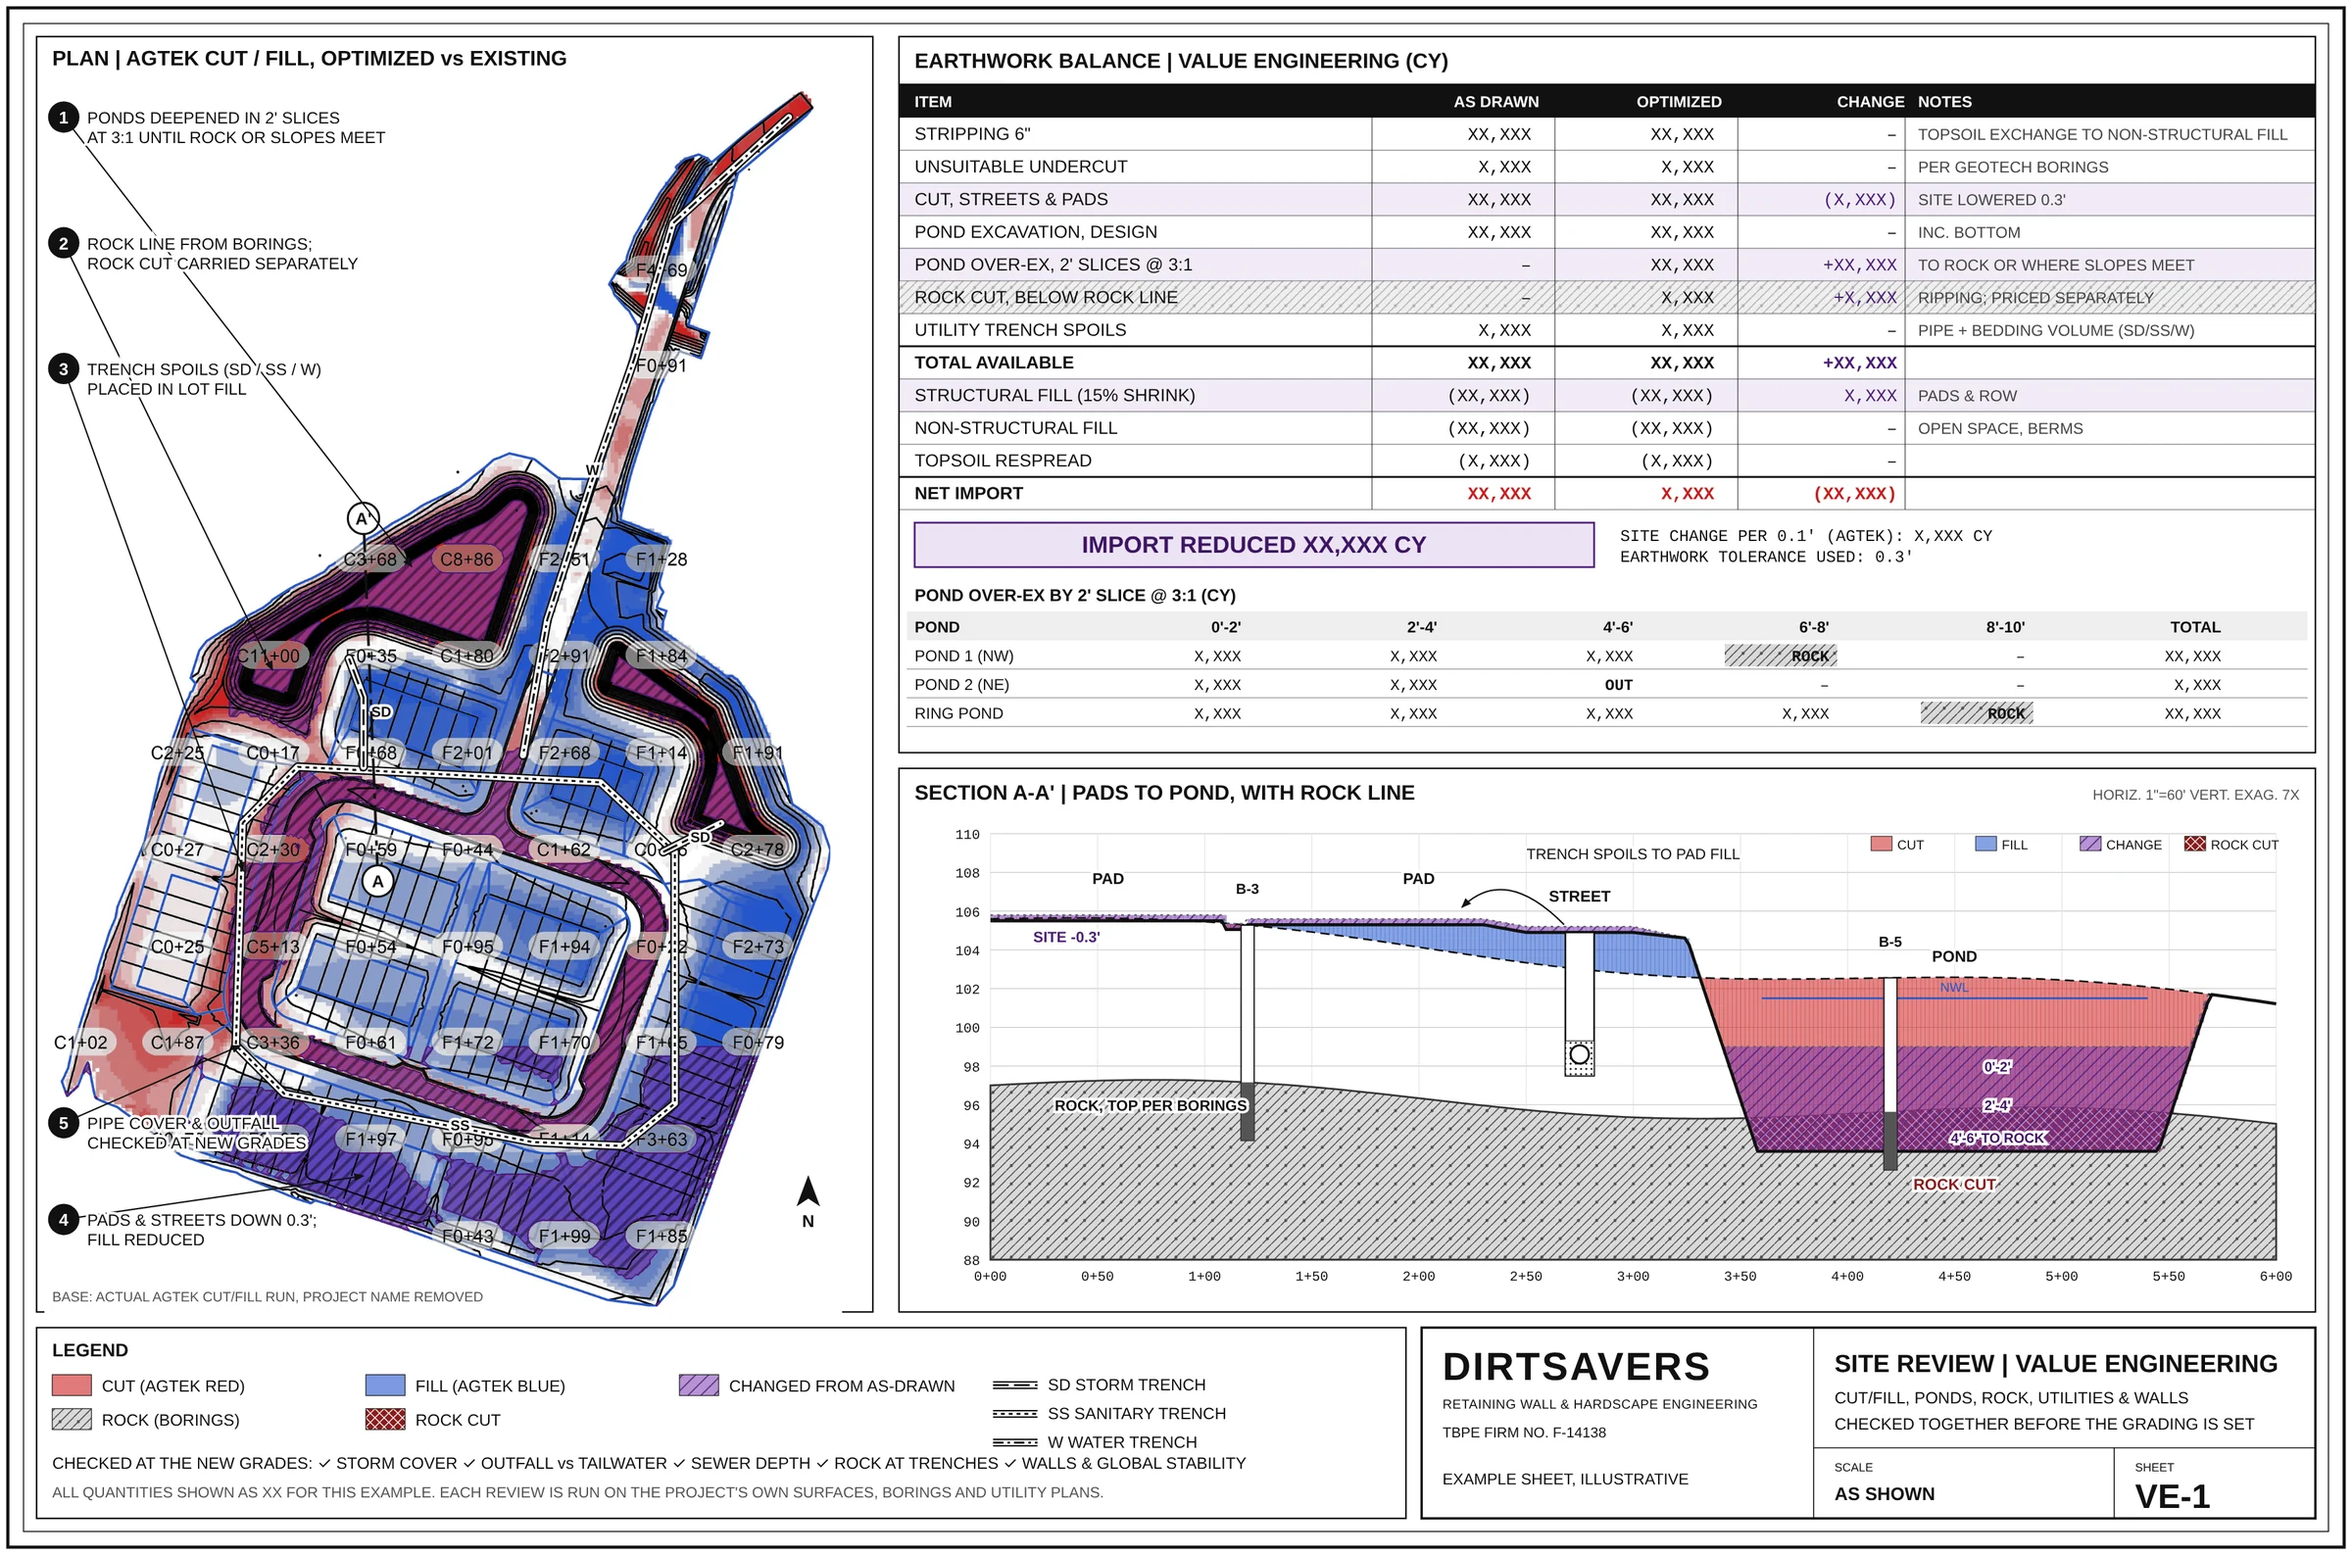
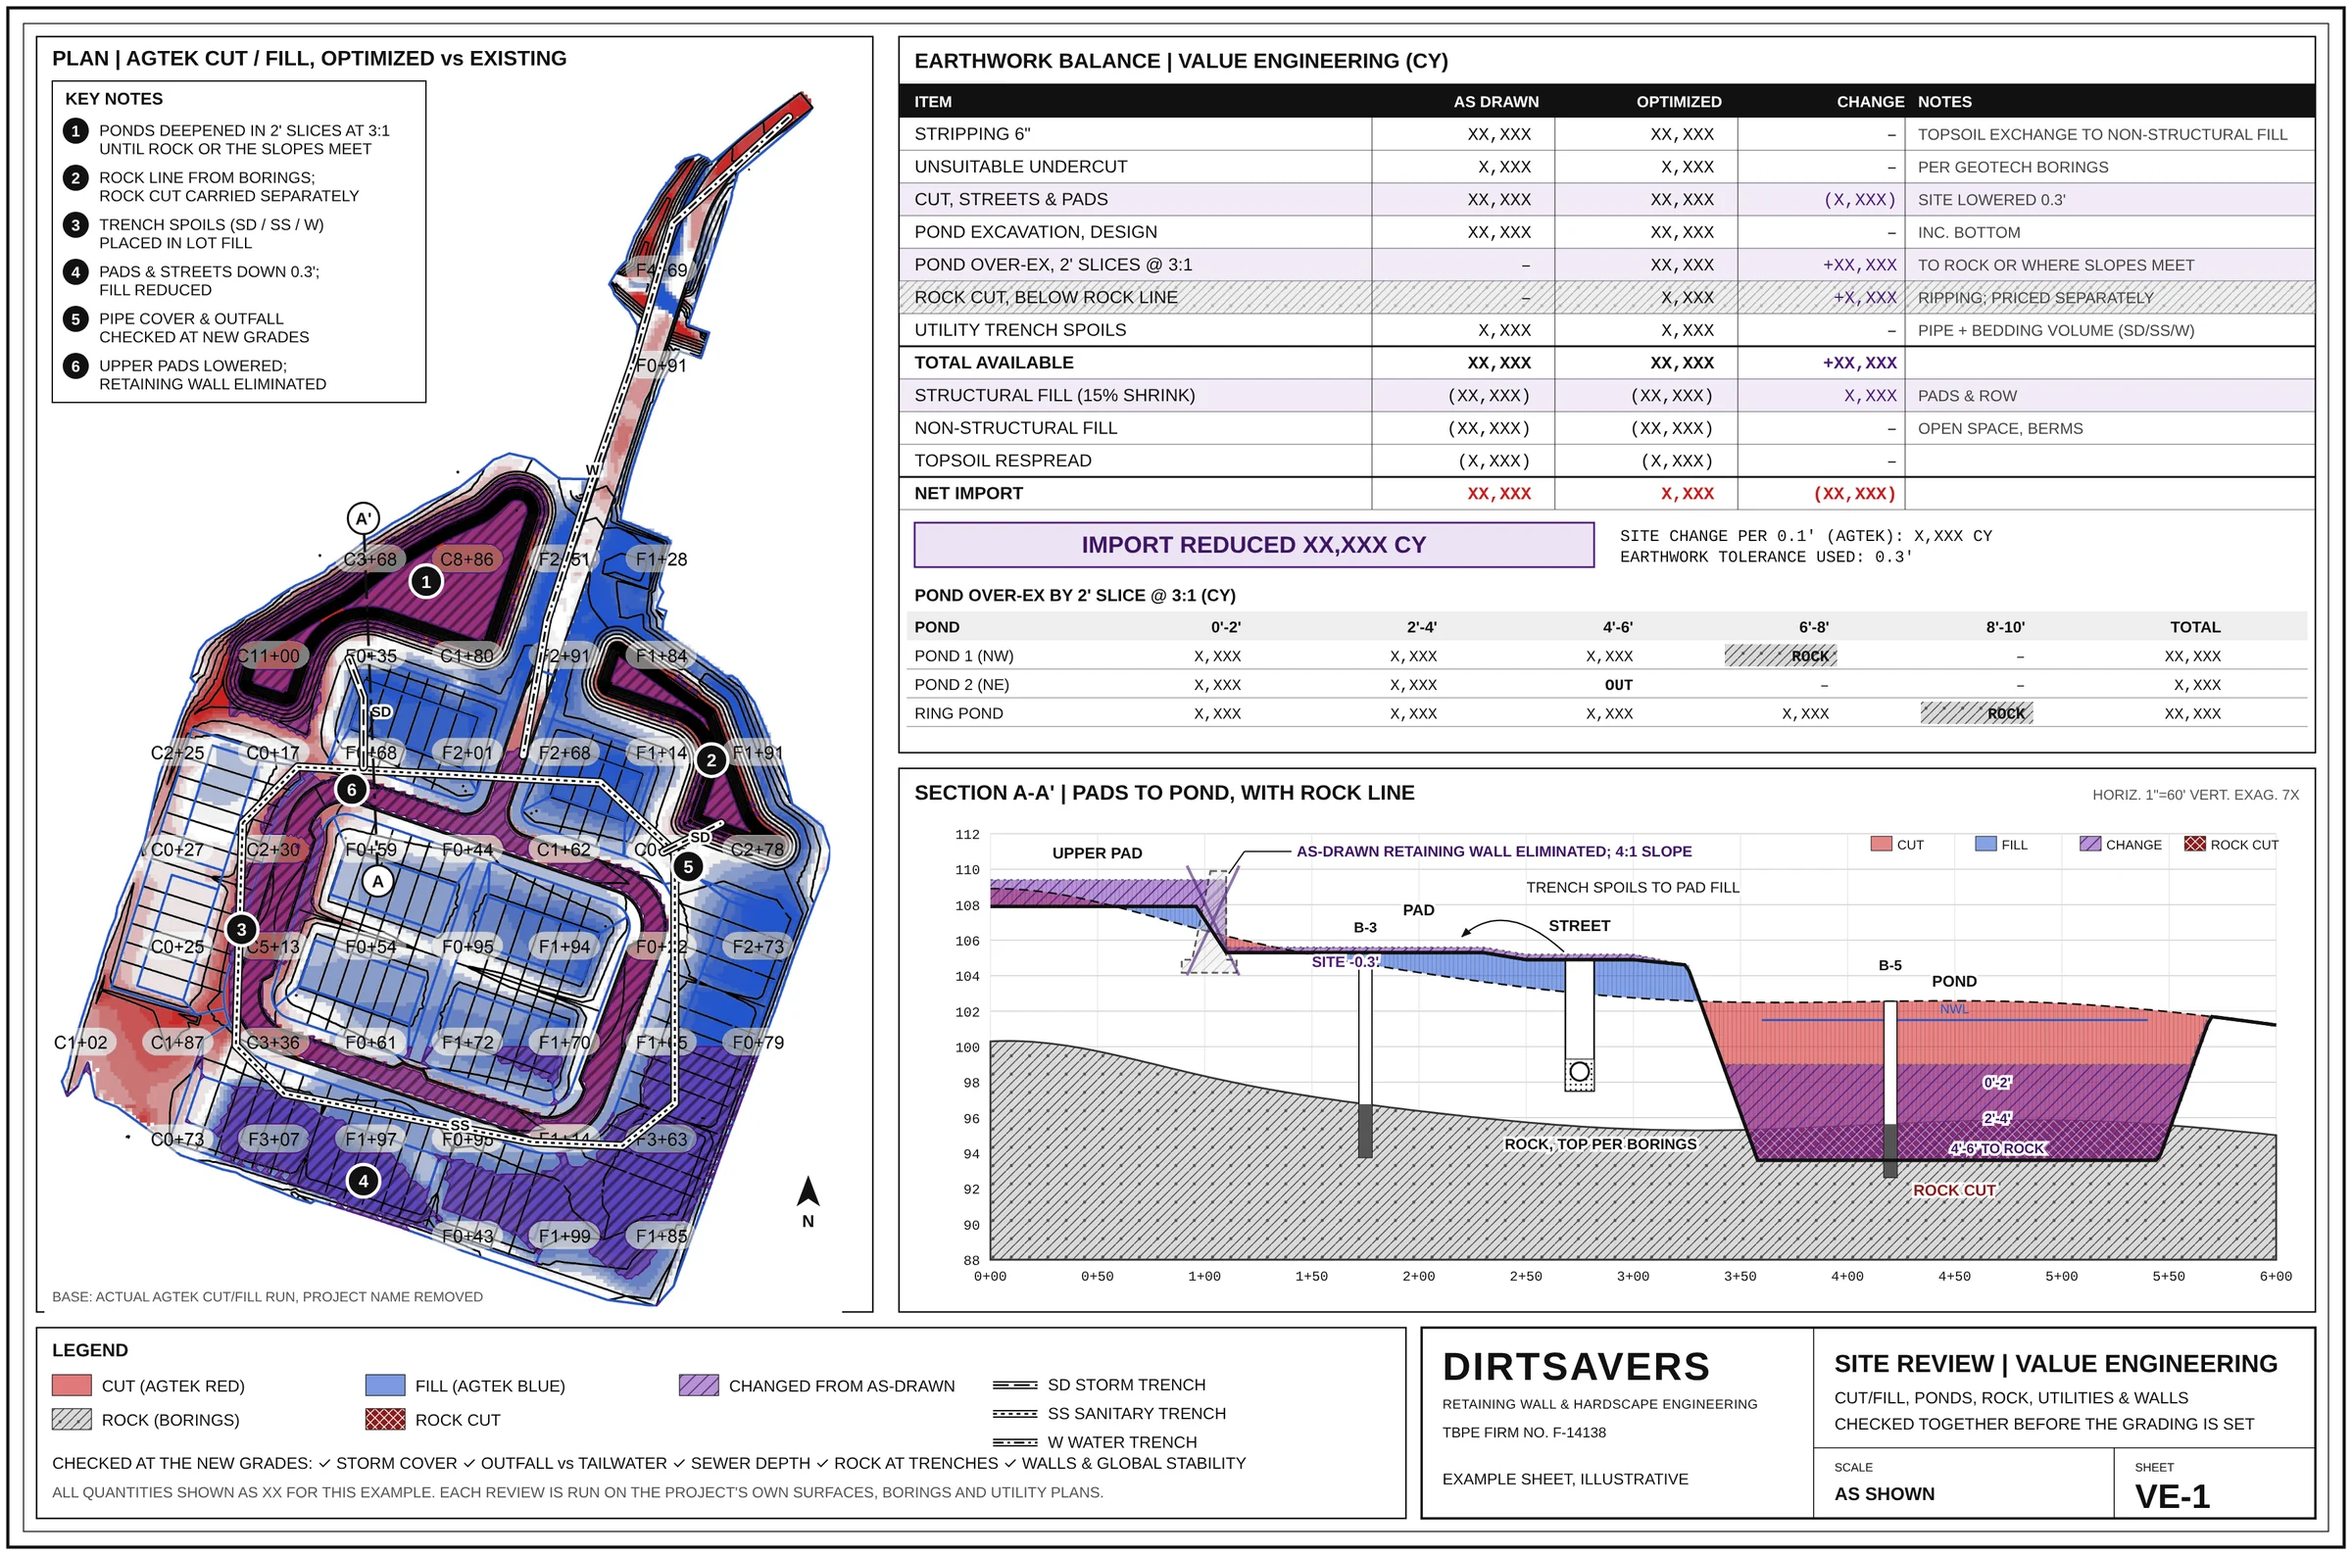
VE-1 sheet: eliminated wall in section, keynote tags on plan
Claude-Session: https://claude.ai/code/session_018PoQfTADSy84sTaDQyB8Bd

diff --git a/developers.html b/developers.html
@@ -114,7 +114,7 @@
 </div>
 <figure class="diag ve-fig">
 <a href="img/ve-sheet.jpg" target="_blank" rel="noopener" aria-label="Open the example value engineering sheet full size">
-<picture><source type="image/webp" srcset="img/ve-sheet-800.webp 800w, img/ve-sheet-1400.webp 1400w, img/ve-sheet-2400.webp 2400w" sizes="(max-width:1200px) 100vw, 1150px"><img src="img/ve-sheet.jpg" width="2400" height="1587" loading="lazy" alt="Example value engineering sheet: cut and fill map from an earthwork takeoff with change areas in purple and utility trenches, an earthwork balance spreadsheet with pond over-excavation, rock cut and utility spoils, and a section from the pads to the pond showing the rock line"></picture>
+<picture><source type="image/webp" srcset="img/ve-sheet-800.webp 800w, img/ve-sheet-1400.webp 1400w, img/ve-sheet-2400.webp 2400w" sizes="(max-width:1200px) 100vw, 1150px"><img src="img/ve-sheet.jpg" width="2400" height="1587" loading="lazy" alt="Example value engineering sheet: cut and fill map from an earthwork takeoff with change areas in purple and utility trenches, a retaining wall eliminated by regrading, an earthwork balance spreadsheet with pond over-excavation, rock cut and utility spoils, and a section from the pads to the pond showing the rock line"></picture>
 </a>
 <figcaption>Example sheet on an actual cut/fill run, project name removed and quantities shown as XX. Tap to open full size. Each review is built from the project's own surfaces, borings and utility plans.</figcaption>
 </figure>
